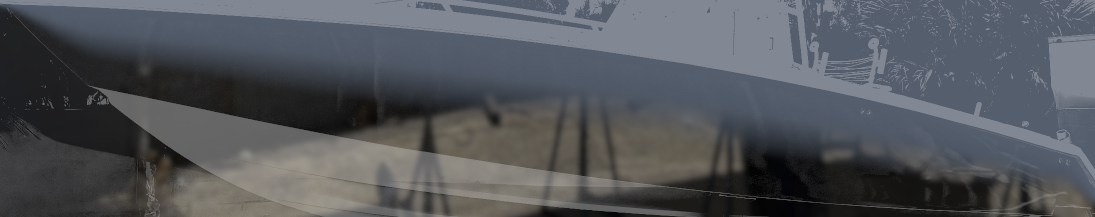
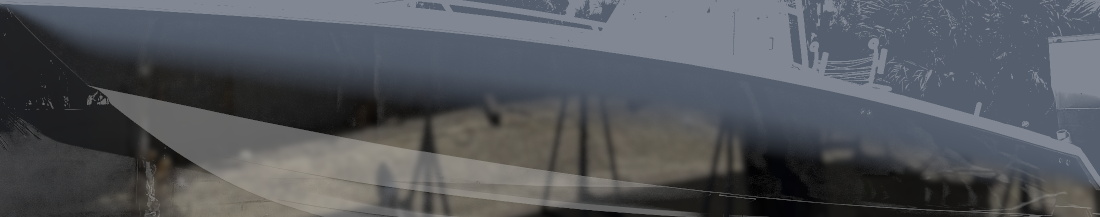
Align wrap with transom and stern edge

diff --git a/assets/boat-preview/boatpreview.js b/assets/boat-preview/boatpreview.js
@@ -3,7 +3,7 @@
    so it matches the selected film's hex exactly; gloss/satin/metallic reflections sit on top. */
 (function(){
   const BASE='assets/boat-preview/';
-  const META={SMAX:2.3,EMAX:0.16,W:1200,H:477,BB:[35,124,1130,341]};
+  const META={SMAX:2.3,EMAX:0.16,W:1200,H:477,BB:[35,124,1135,341]};
   const PCT={matte:50,satin:45,gloss:30,metal:35};
   let ready=null, data=null, pending=null;
   const lin=v=>{v/=255;return v<=0.04045?v/12.92:Math.pow((v+0.055)/1.055,2.4)};
